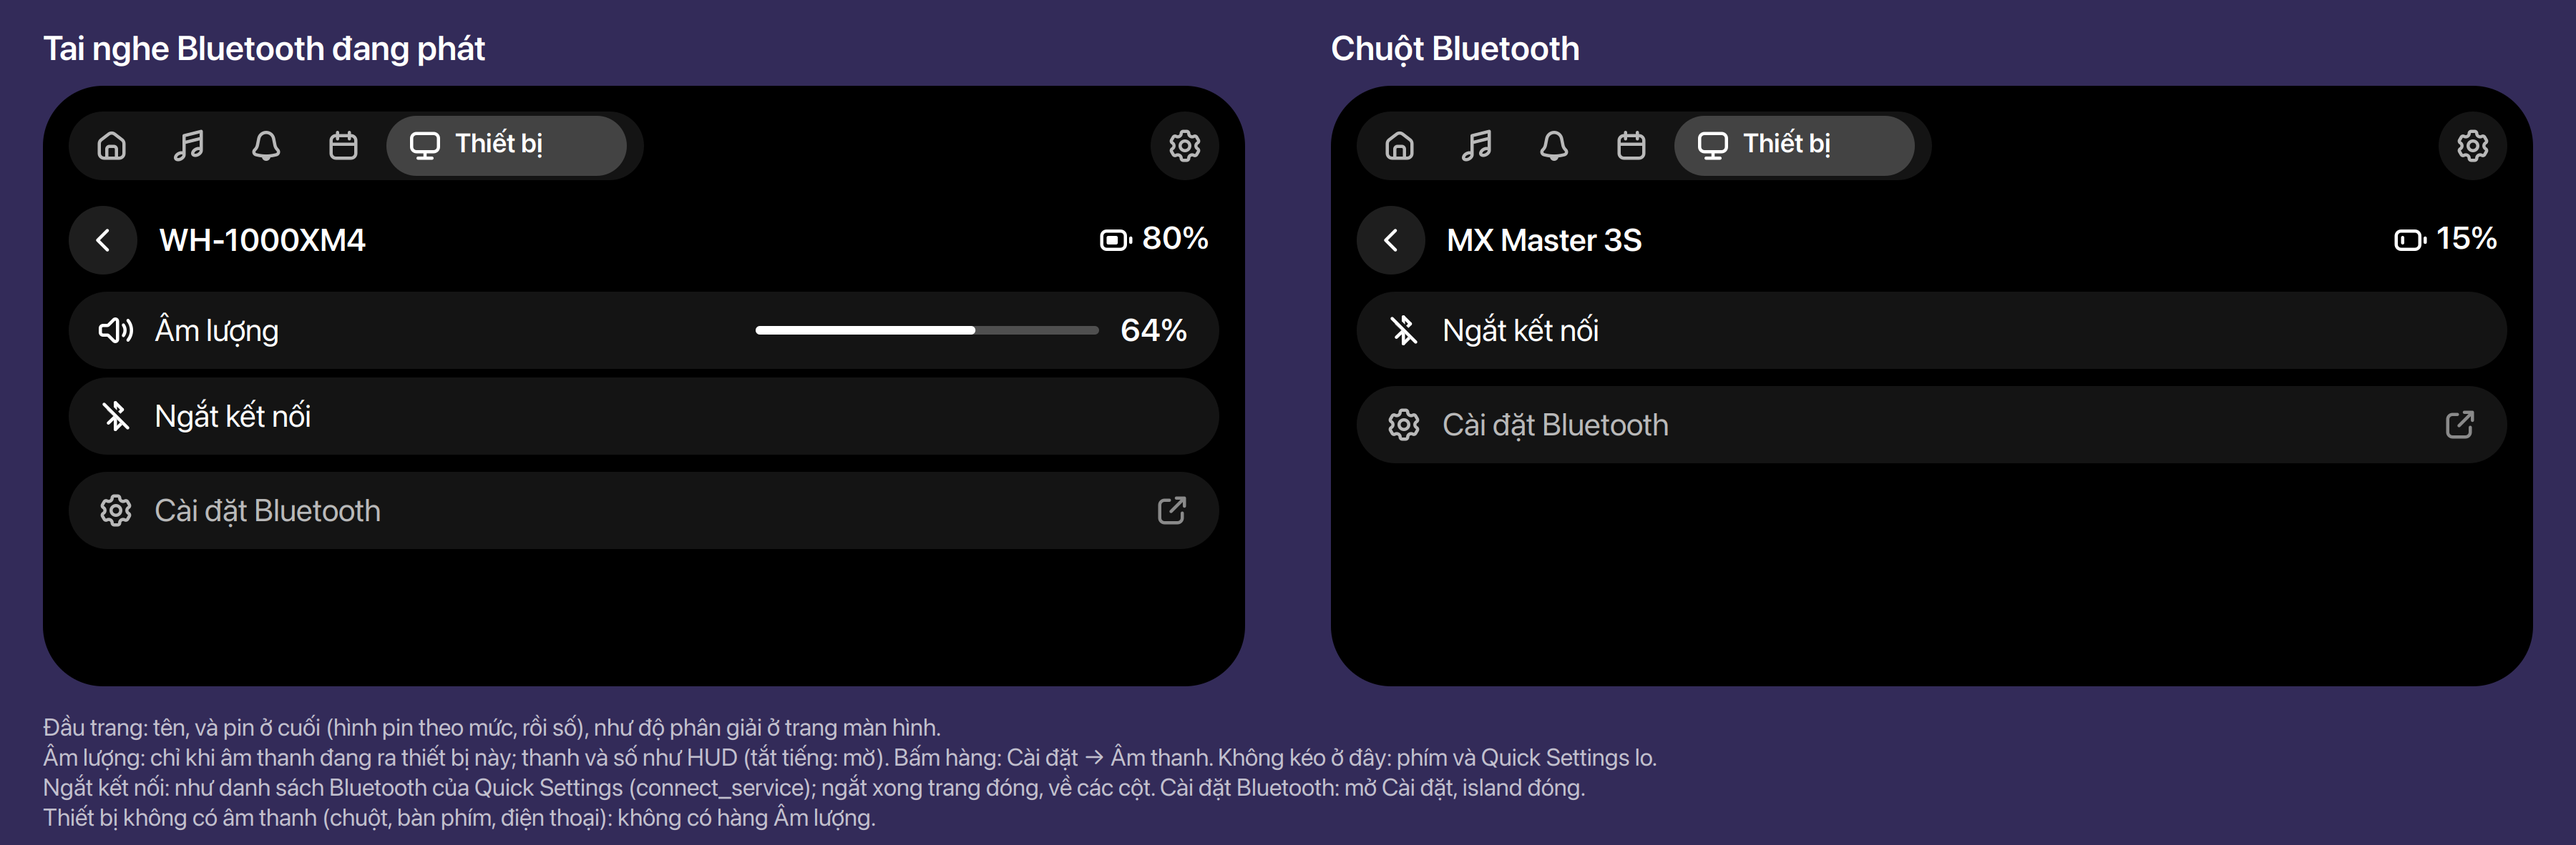
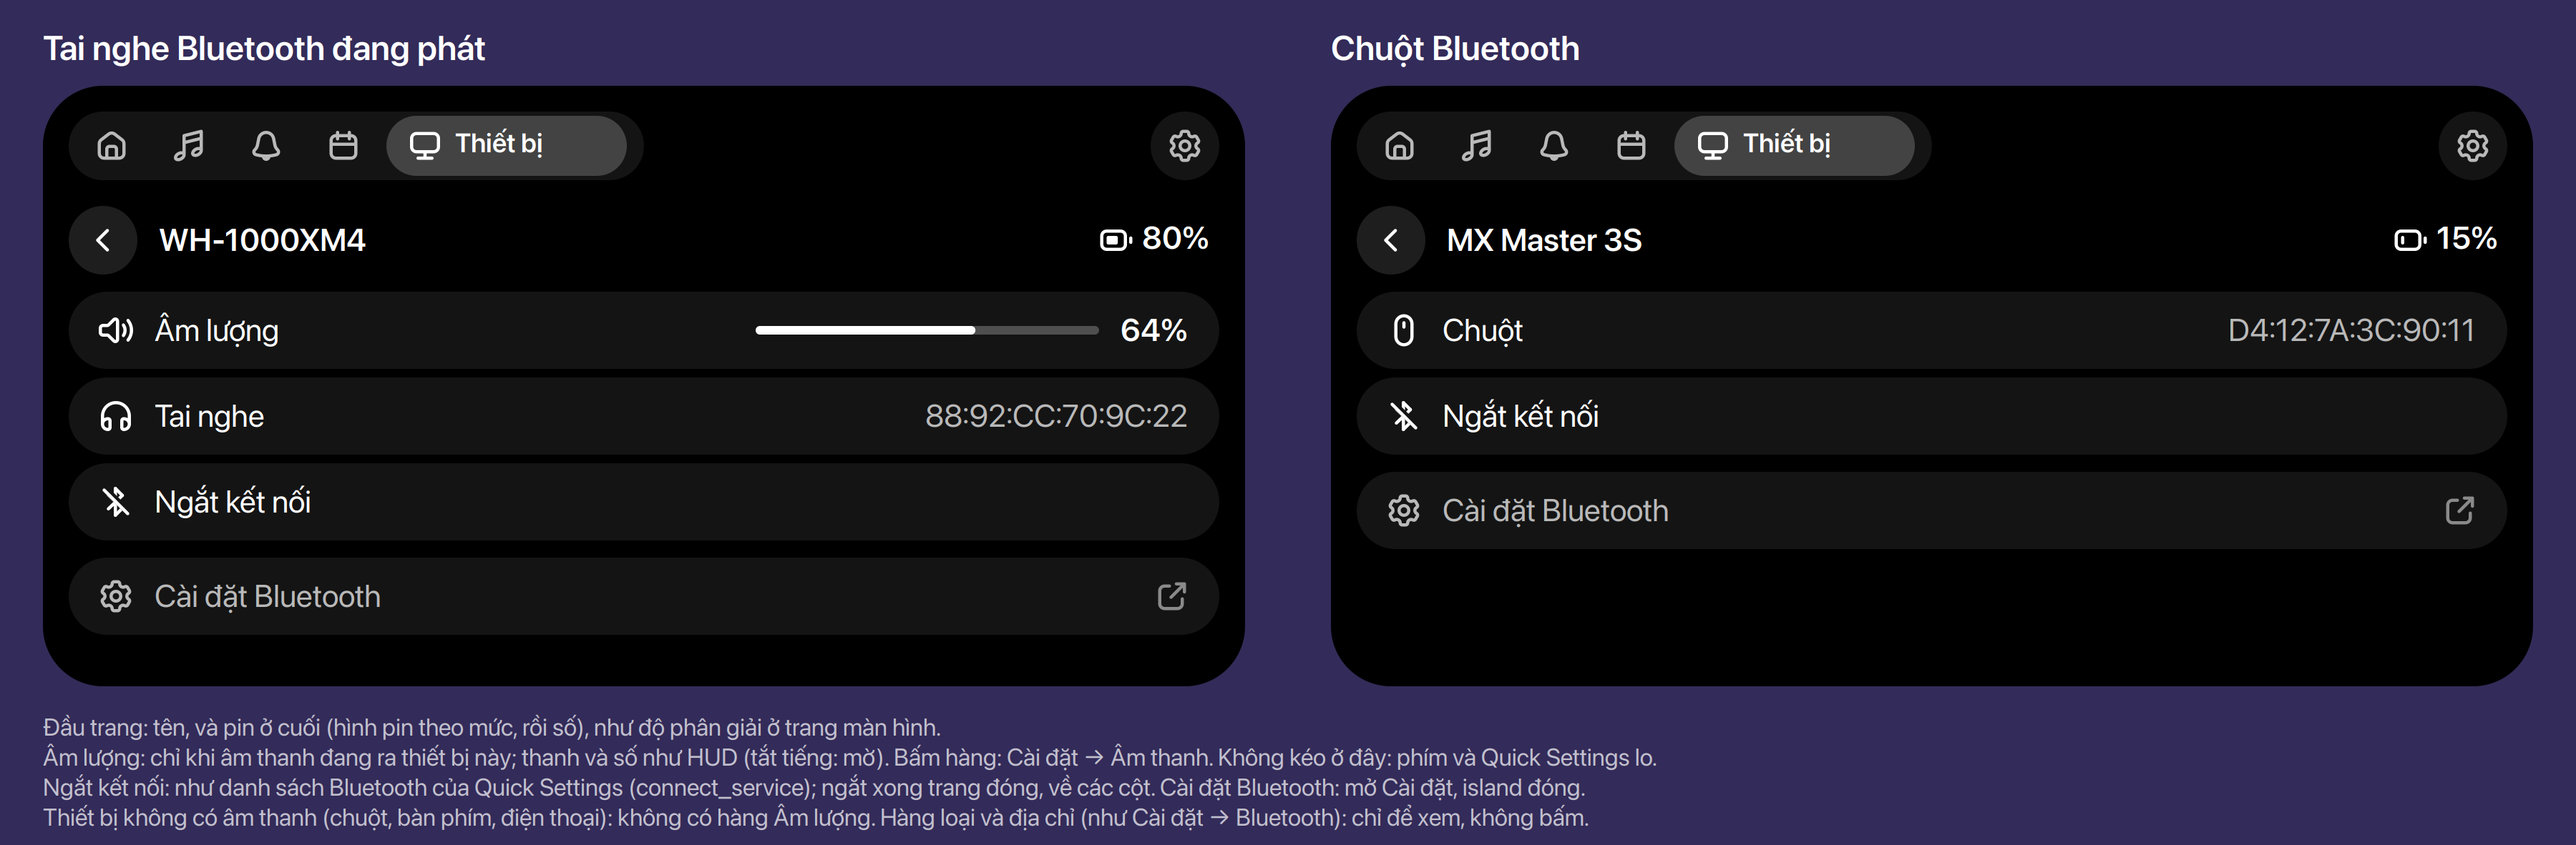
feat(device): a Bluetooth device's type and address on its page
As Settings → Bluetooth shows them: one row, the kind's icon and name with the
address, not a button (Ethan, 2026-11-17). Tests in devices.test.js.

Refs: FEATURES.md M4 "Bluetooth device"

diff --git a/tests/devices.test.js b/tests/devices.test.js
@@ -105,11 +105,16 @@ const wg = deviceGroups({
 eq(wg[1].cells.map(c => c.name), ['MX Master 3S', 'WH-1000XM4', 'Pixel 8'], 'groups: Wireless, a low battery first (design/device)');
 eq(planDevices(wg, 3).map(c => c.title), ['Wireless'], 'groups: Wireless alone shown when it alone has devices');
 
-const bp = bluetoothPage({name: 'WH-1000XM4', battery: {percentage: 80}}, {level: 0.64, muted: false});
+const bp = bluetoothPage({name: 'WH-1000XM4', kind: 'headphones', address: '88:92:CC:70:9C:22', battery: {percentage: 80}}, {level: 0.64, muted: false});
 eq([bp.title, bp.battery, bp.rows.map(r => r.id), bp.rows[0].meter, bp.settings.name],
-    ['WH-1000XM4', {type: 'battery', value: 0.8, label: '80%'}, ['volume', 'disconnect'], {type: 'bar', value: 0.64, label: '64%'}, 'Bluetooth Settings'],
-    'bluetooth page: the battery at the head, the volume while it plays, Disconnect, Bluetooth Settings (Ethan, 2026-11-17)');
-eq(bluetoothPage({name: 'MX Master 3S', battery: {percentage: 15}}).rows.map(r => r.id), ['disconnect'], 'bluetooth page: not playing, no volume row');
+    ['WH-1000XM4', {type: 'battery', value: 0.8, label: '80%'}, ['volume', 'info', 'disconnect'], {type: 'bar', value: 0.64, label: '64%'}, 'Bluetooth Settings'],
+    'bluetooth page: the battery at the head, the volume while it plays, what it is, Disconnect, Bluetooth Settings (Ethan, 2026-11-17)');
+eq(bp.rows[1], {id: 'info', icon: 'audio-headphones-symbolic', name: 'Headphones', value: '88:92:CC:70:9C:22'},
+    'bluetooth page: its type and address, as Settings → Bluetooth (Ethan, 2026-11-17)');
+const rn = bluetoothPage({name: 'Redmi Note 14', kind: 'phone', address: 'F8:43:EF:98:5A:0D'});
+eq([rn.rows.map(r => r.id), rn.rows[0].name], [['info', 'disconnect'], 'Phone'], 'bluetooth page: not playing, no volume row');
+eq([bluetoothPage({name: 'X', kind: 'gaming'}).rows[0], bluetoothPage({name: 'X', kind: 'weird'}).rows[0].name],
+    [{id: 'info', icon: 'input-gaming-symbolic', name: 'Game Controller', value: null}, 'Device'], 'bluetooth page: no address; an unknown kind is a "Device"');
 eq([bluetoothPage({name: 'Pixel 8'}).battery, bluetoothPage({name: ''}).title, bluetoothPage(null)], [null, 'Bluetooth device', null],
     'bluetooth page: no battery, no name, nothing');
 

diff --git a/docs/design/device/render/bluetooth-page.js b/docs/design/device/render/bluetooth-page.js
@@ -67,6 +67,8 @@ function page(x, y, name, batt, rows) {
             fill(.25, bx, ry + 16, bw, 4, 2); fill(1, bx, ry + 16, bw * v, 4, 2);
             text(label, AX + AW - 14, ry + 9, {wt: 600, right: true});
         }
+        if (r.value)
+            text(r.value, AX + AW - 14, ry + 9, {a: C.FG_MUTED, right: true});
         if (r.settings)
             icon('arrow-up-right-from-square', AX + AW - 30, ry + 10, 16, C.FG_SUBTLE);
     });
@@ -76,12 +78,14 @@ let x = GAP / 2;
 text('Tai nghe Bluetooth đang phát', x, 12, {sz: 12, wt: 600});
 page(x, 40, 'WH-1000XM4', [.8, '80%'], [
     {ic: 'volume', name: 'Âm lượng', level: [.64, '64%']},
+    {ic: 'headphones', name: 'Tai nghe', value: '88:92:CC:70:9C:22'},
     {ic: 'bluetooth-slash', name: 'Ngắt kết nối'},
     {ic: 'gear', name: 'Cài đặt Bluetooth', settings: true},
 ]);
 x += PW + GAP;
 text('Chuột Bluetooth', x, 12, {sz: 12, wt: 600});
 page(x, 40, 'MX Master 3S', [.15, '15%'], [
+    {ic: 'mouse', name: 'Chuột', value: 'D4:12:7A:3C:90:11'},
     {ic: 'bluetooth-slash', name: 'Ngắt kết nối'},
     {ic: 'gear', name: 'Cài đặt Bluetooth', settings: true},
 ]);
@@ -89,5 +93,5 @@ const ny = 40 + PH + 12;
 note('Đầu trang: tên, và pin ở cuối (hình pin theo mức, rồi số), như độ phân giải ở trang màn hình.', GAP / 2, ny);
 note('Âm lượng: chỉ khi âm thanh đang ra thiết bị này; thanh và số như HUD (tắt tiếng: mờ). Bấm hàng: Cài đặt → Âm thanh. Không kéo ở đây: phím và Quick Settings lo.', GAP / 2, ny + 14);
 note('Ngắt kết nối: như danh sách Bluetooth của Quick Settings (connect_service); ngắt xong trang đóng, về các cột. Cài đặt Bluetooth: mở Cài đặt, island đóng.', GAP / 2, ny + 28);
-note('Thiết bị không có âm thanh (chuột, bàn phím, điện thoại): không có hàng Âm lượng.', GAP / 2, ny + 42);
+note('Thiết bị không có âm thanh (chuột, bàn phím, điện thoại): không có hàng Âm lượng. Hàng loại và địa chỉ (như Cài đặt → Bluetooth): chỉ để xem, không bấm.', GAP / 2, ny + 42);
 surf.writeToPNG(out);

diff --git a/src/buoy@murilegus/lib/kit/model/devices.js b/src/buoy@murilegus/lib/kit/model/devices.js
@@ -1,6 +1,6 @@
 import {MODES} from './displays.js';
 import {isBluetoothSink} from './audio.js';
-import {batteryOf, kindIcon, sortWireless} from './bluetooth.js';
+import {batteryOf, kindIcon, kindName, sortWireless} from './bluetooth.js';
 import {PROFILES, STATE, batteryIcon, duration} from './power.js';
 
 /**
@@ -227,11 +227,12 @@ export function displayPage(d) {
 
 /**
  * A Bluetooth device's page (design/device "Bấm vào", 2026-11-17, Ethan): its battery at the end of
- * the head; the volume, while the sound plays on it; Disconnect; Bluetooth Settings.
+ * the head; the volume, while the sound plays on it; what it is and its address, as Settings →
+ * Bluetooth shows them (one row, not a button); Disconnect; Bluetooth Settings.
  *
- * @param {{name: string, battery?: ?object}} d  model/bluetooth.js's device
+ * @param {{name: string, kind?: string, address?: ?string, battery?: ?object}} d  model/bluetooth.js's device
  * @param {?{level: ?number, muted?: boolean}} audio  the sound on it now; null: it plays elsewhere
- * @returns {?object} {title, battery: ?{value, label?}, rows: [{id, icon, name, meter?}], settings}
+ * @returns {?object} {title, battery: ?{value, label?}, rows: [{id, icon, name, meter?, value?}], settings}
  */
 export function bluetoothPage(d, audio = null) {
     if (!d)
@@ -243,6 +244,7 @@ export function bluetoothPage(d, audio = null) {
         battery: b ? {type: 'battery', value: b.value, ...b.label ? {label: b.label} : {}} : null,
         rows: [
             ...volume ? [{id: 'volume', icon: 'audio-speakers-symbolic', name: 'Volume', meter: volume}] : [],
+            {id: 'info', icon: kindIcon(d.kind), name: kindName(d.kind), value: d.address || null},
             {id: 'disconnect', icon: 'bluetooth-disabled-symbolic', name: 'Disconnect'},
         ],
         settings: {name: 'Bluetooth Settings'},

diff --git a/src/buoy@murilegus/lib/kit/model/bluetooth.js b/src/buoy@murilegus/lib/kit/model/bluetooth.js
@@ -73,6 +73,16 @@ export function upKind(kind) {
     return UP_KINDS.get(kind) ?? null;
 }
 
+const NAMES = Object.freeze({
+    headphones: 'Headphones', speakers: 'Speakers', keyboard: 'Keyboard', mouse: 'Mouse', gaming: 'Game Controller',
+    tablet: 'Tablet', touchpad: 'Touchpad', phone: 'Phone', other: 'Device',
+});
+
+/** @param {string} kind  @returns {string} its name, as Settings → Bluetooth says the type */
+export function kindName(kind) {
+    return NAMES[kind] ?? NAMES.other;
+}
+
 /** @param {string} kind  @returns {string} its symbolic icon */
 export function kindIcon(kind) {
     return ICONS[kind] ?? ICONS.other;

diff --git a/src/buoy@murilegus/lib/modules/device/tab.js b/src/buoy@murilegus/lib/modules/device/tab.js
@@ -286,6 +286,8 @@ export class DeviceTab {
             if (r.id === 'volume') {
                 rows.add_child(choiceRow({icon: r.icon, name: r.name, plain: true, end: meterActor(r.meter, ROW_BAR)},
                     () => this._launch('gnome-sound-panel.desktop')));
+            } else if (r.id === 'info') {
+                rows.add_child(choiceRow({icon: r.icon, name: r.name, value: r.value, plain: true}, null));
             } else {
                 rows.add_child(choiceRow({icon: r.icon, name: r.name, plain: true}, () => disconnectDevice(this._bt, id)));
             }

diff --git a/docs/design/device/index.vi.md b/docs/design/device/index.vi.md
@@ -81,8 +81,9 @@ plugged, Bluetooth device, USB / phone / webcam plugged, Phone via GSConnect). S
 
 - **Bấm thiết bị Bluetooth**: trang thay chỗ các cột. Đầu trang: tên, pin ở cuối. Hàng **Âm lượng**
   (thanh và số) chỉ khi âm thanh đang ra thiết bị đó; bấm mở Cài đặt → Âm thanh, kéo thì dùng phím hay
-  Quick Settings. **Ngắt kết nối** như danh sách Bluetooth của Quick Settings; ngắt xong về các cột.
-  Rồi **Cài đặt Bluetooth**. **Chốt** (Ethan, 2026-11-17)
+  Quick Settings. Một hàng **loại và địa chỉ** ("Điện thoại · F8:43:EF:98:5A:0D"), như Cài đặt →
+  Bluetooth, chỉ để xem. **Ngắt kết nối** như danh sách Bluetooth của Quick Settings; ngắt xong về các
+  cột. Rồi **Cài đặt Bluetooth**. **Chốt** (Ethan, 2026-11-17)
 
 ## Mục này làm gì
 
